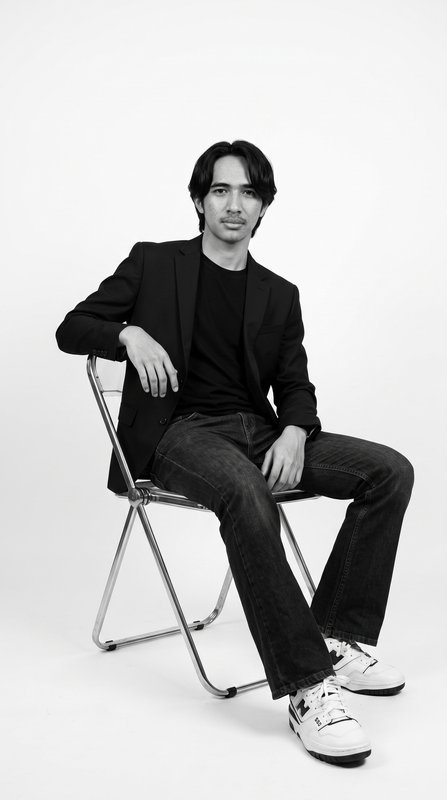
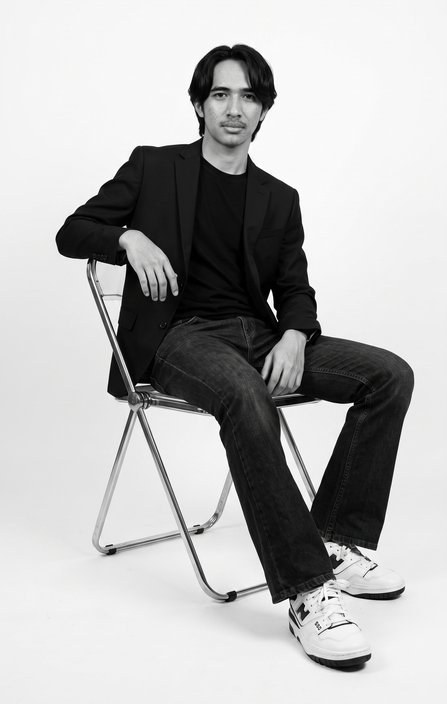
style: crop hero photo top headroom at source (mask intact); revert mobile object-cover

Changed region(s): [[0.1163, 0.0625, 0.9306, 0.9688], [0.5817, 0.4062, 0.6107, 0.4375]]

diff --git a/src/App.jsx b/src/App.jsx
@@ -537,7 +537,7 @@ function App() {
                   <img 
                     src={`${import.meta.env.BASE_URL}hero-optimized.jpg`}
                     alt="Aiman Hambali"
-                    className="w-full max-h-[68vh] object-cover object-[center_22%] sm:max-h-none sm:h-auto sm:object-contain"
+                    className="w-full h-auto object-contain"
                   />
                 </picture>
               </div>
